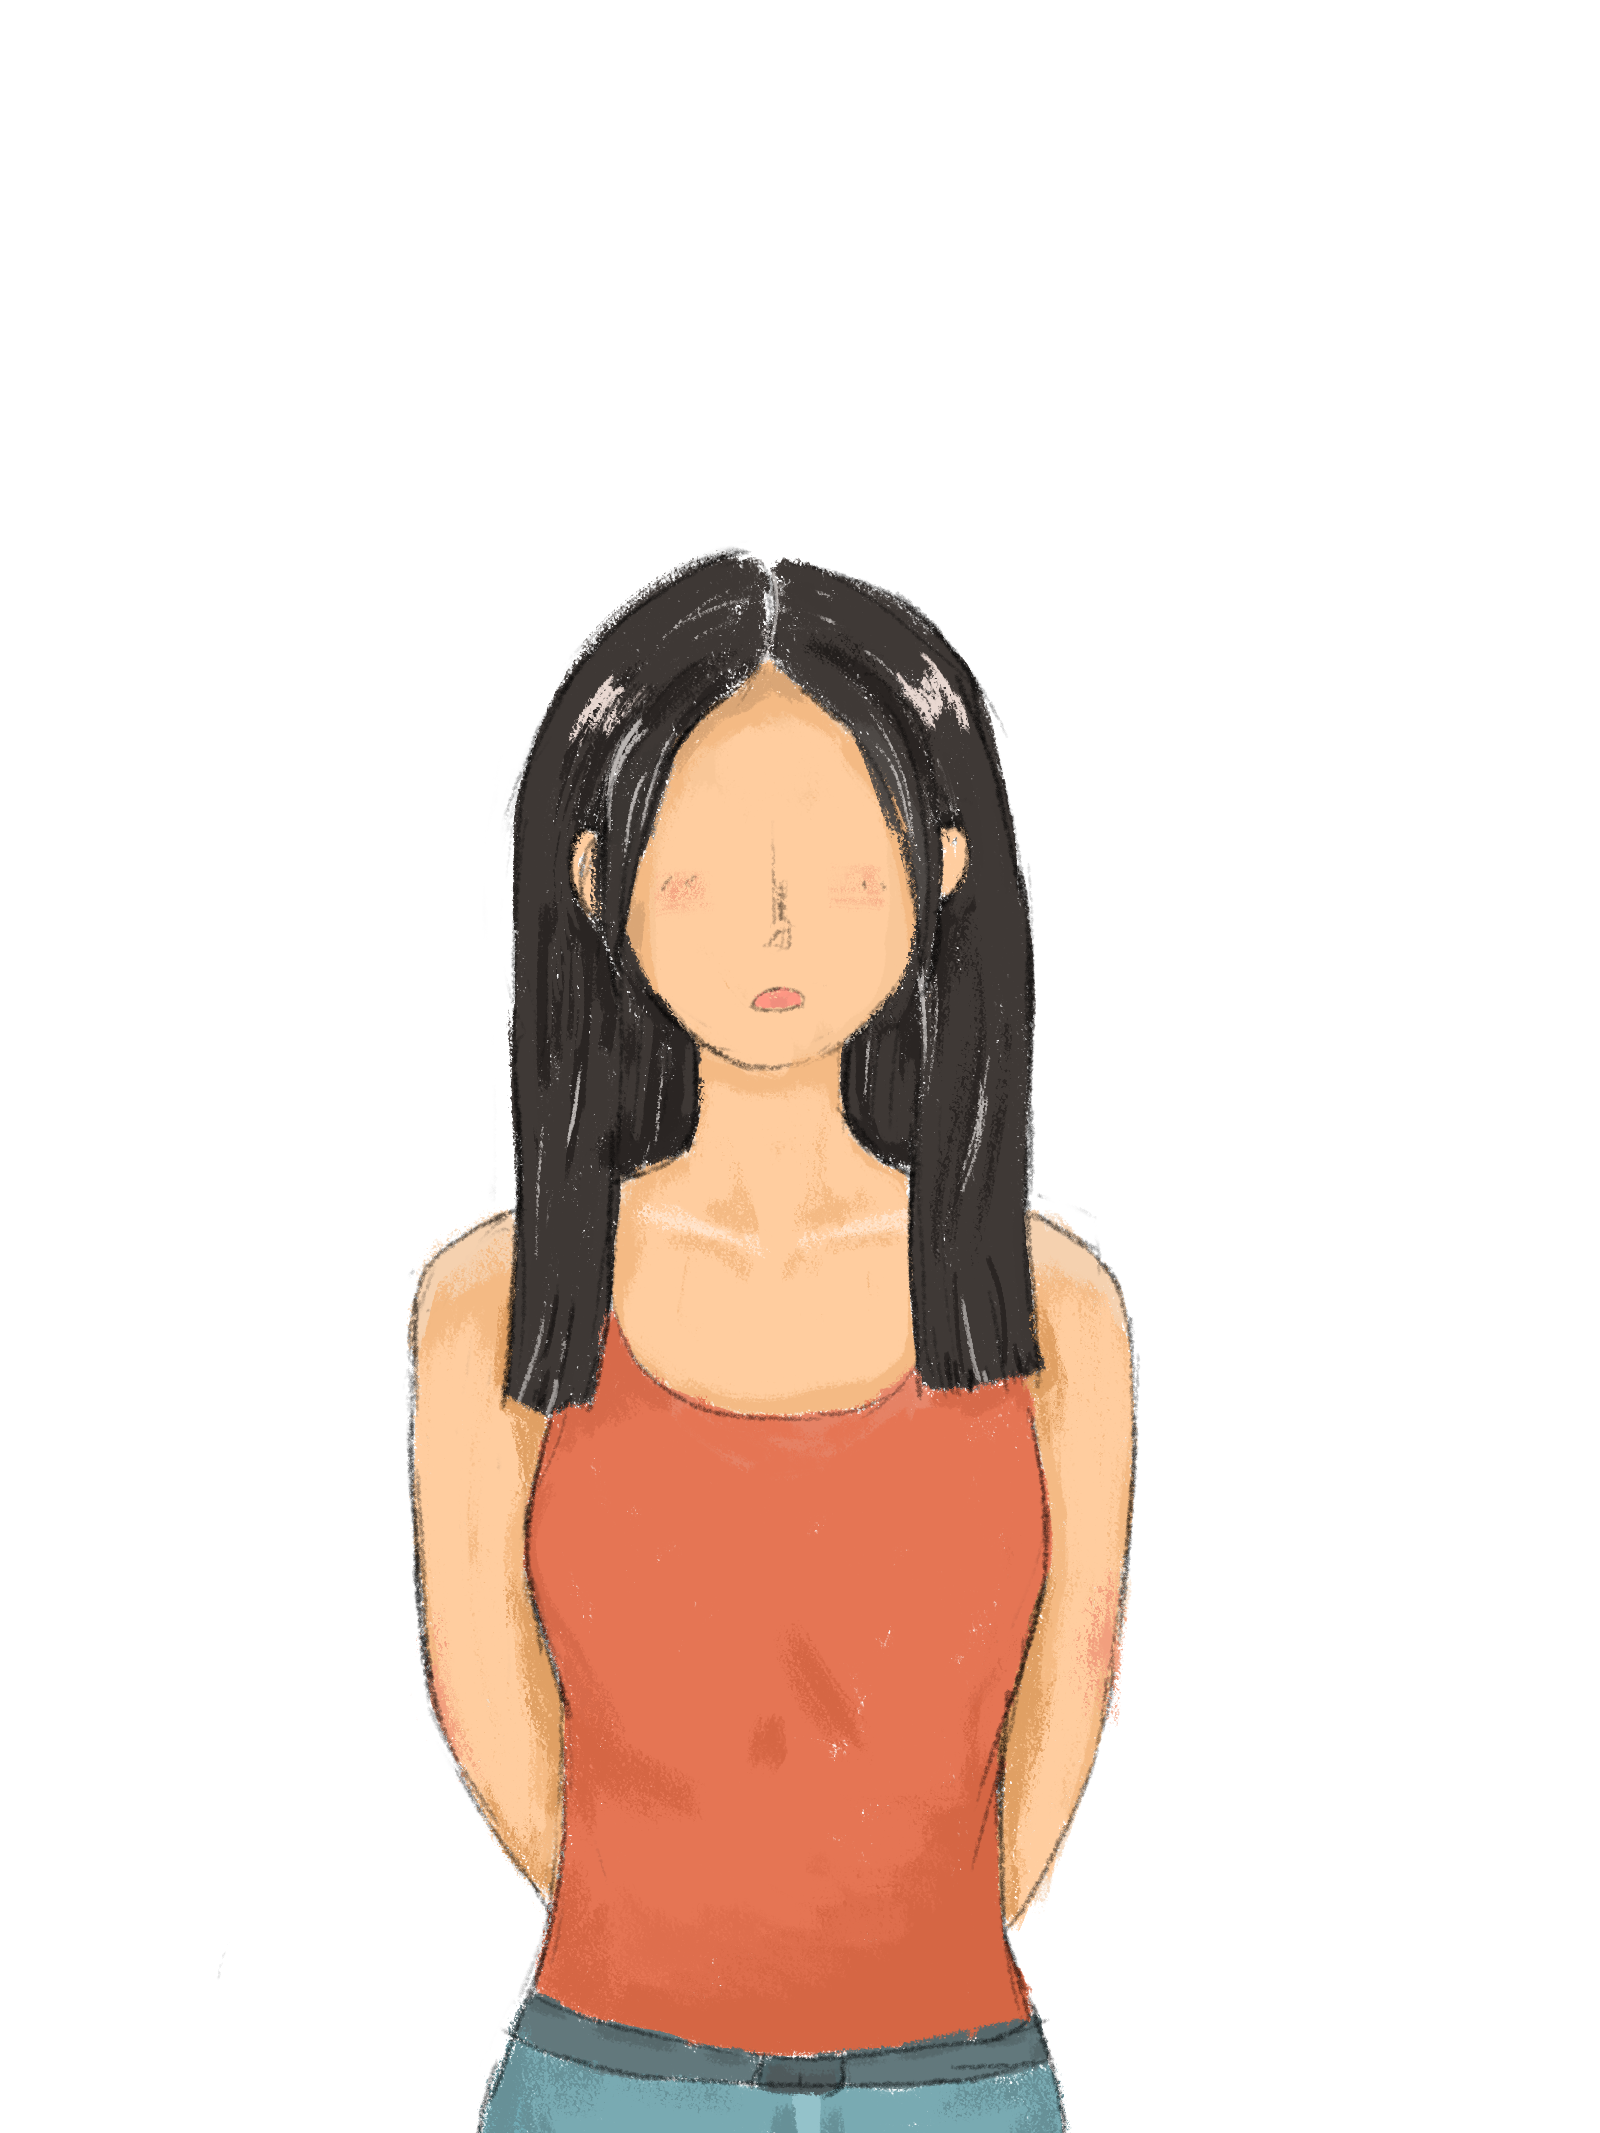
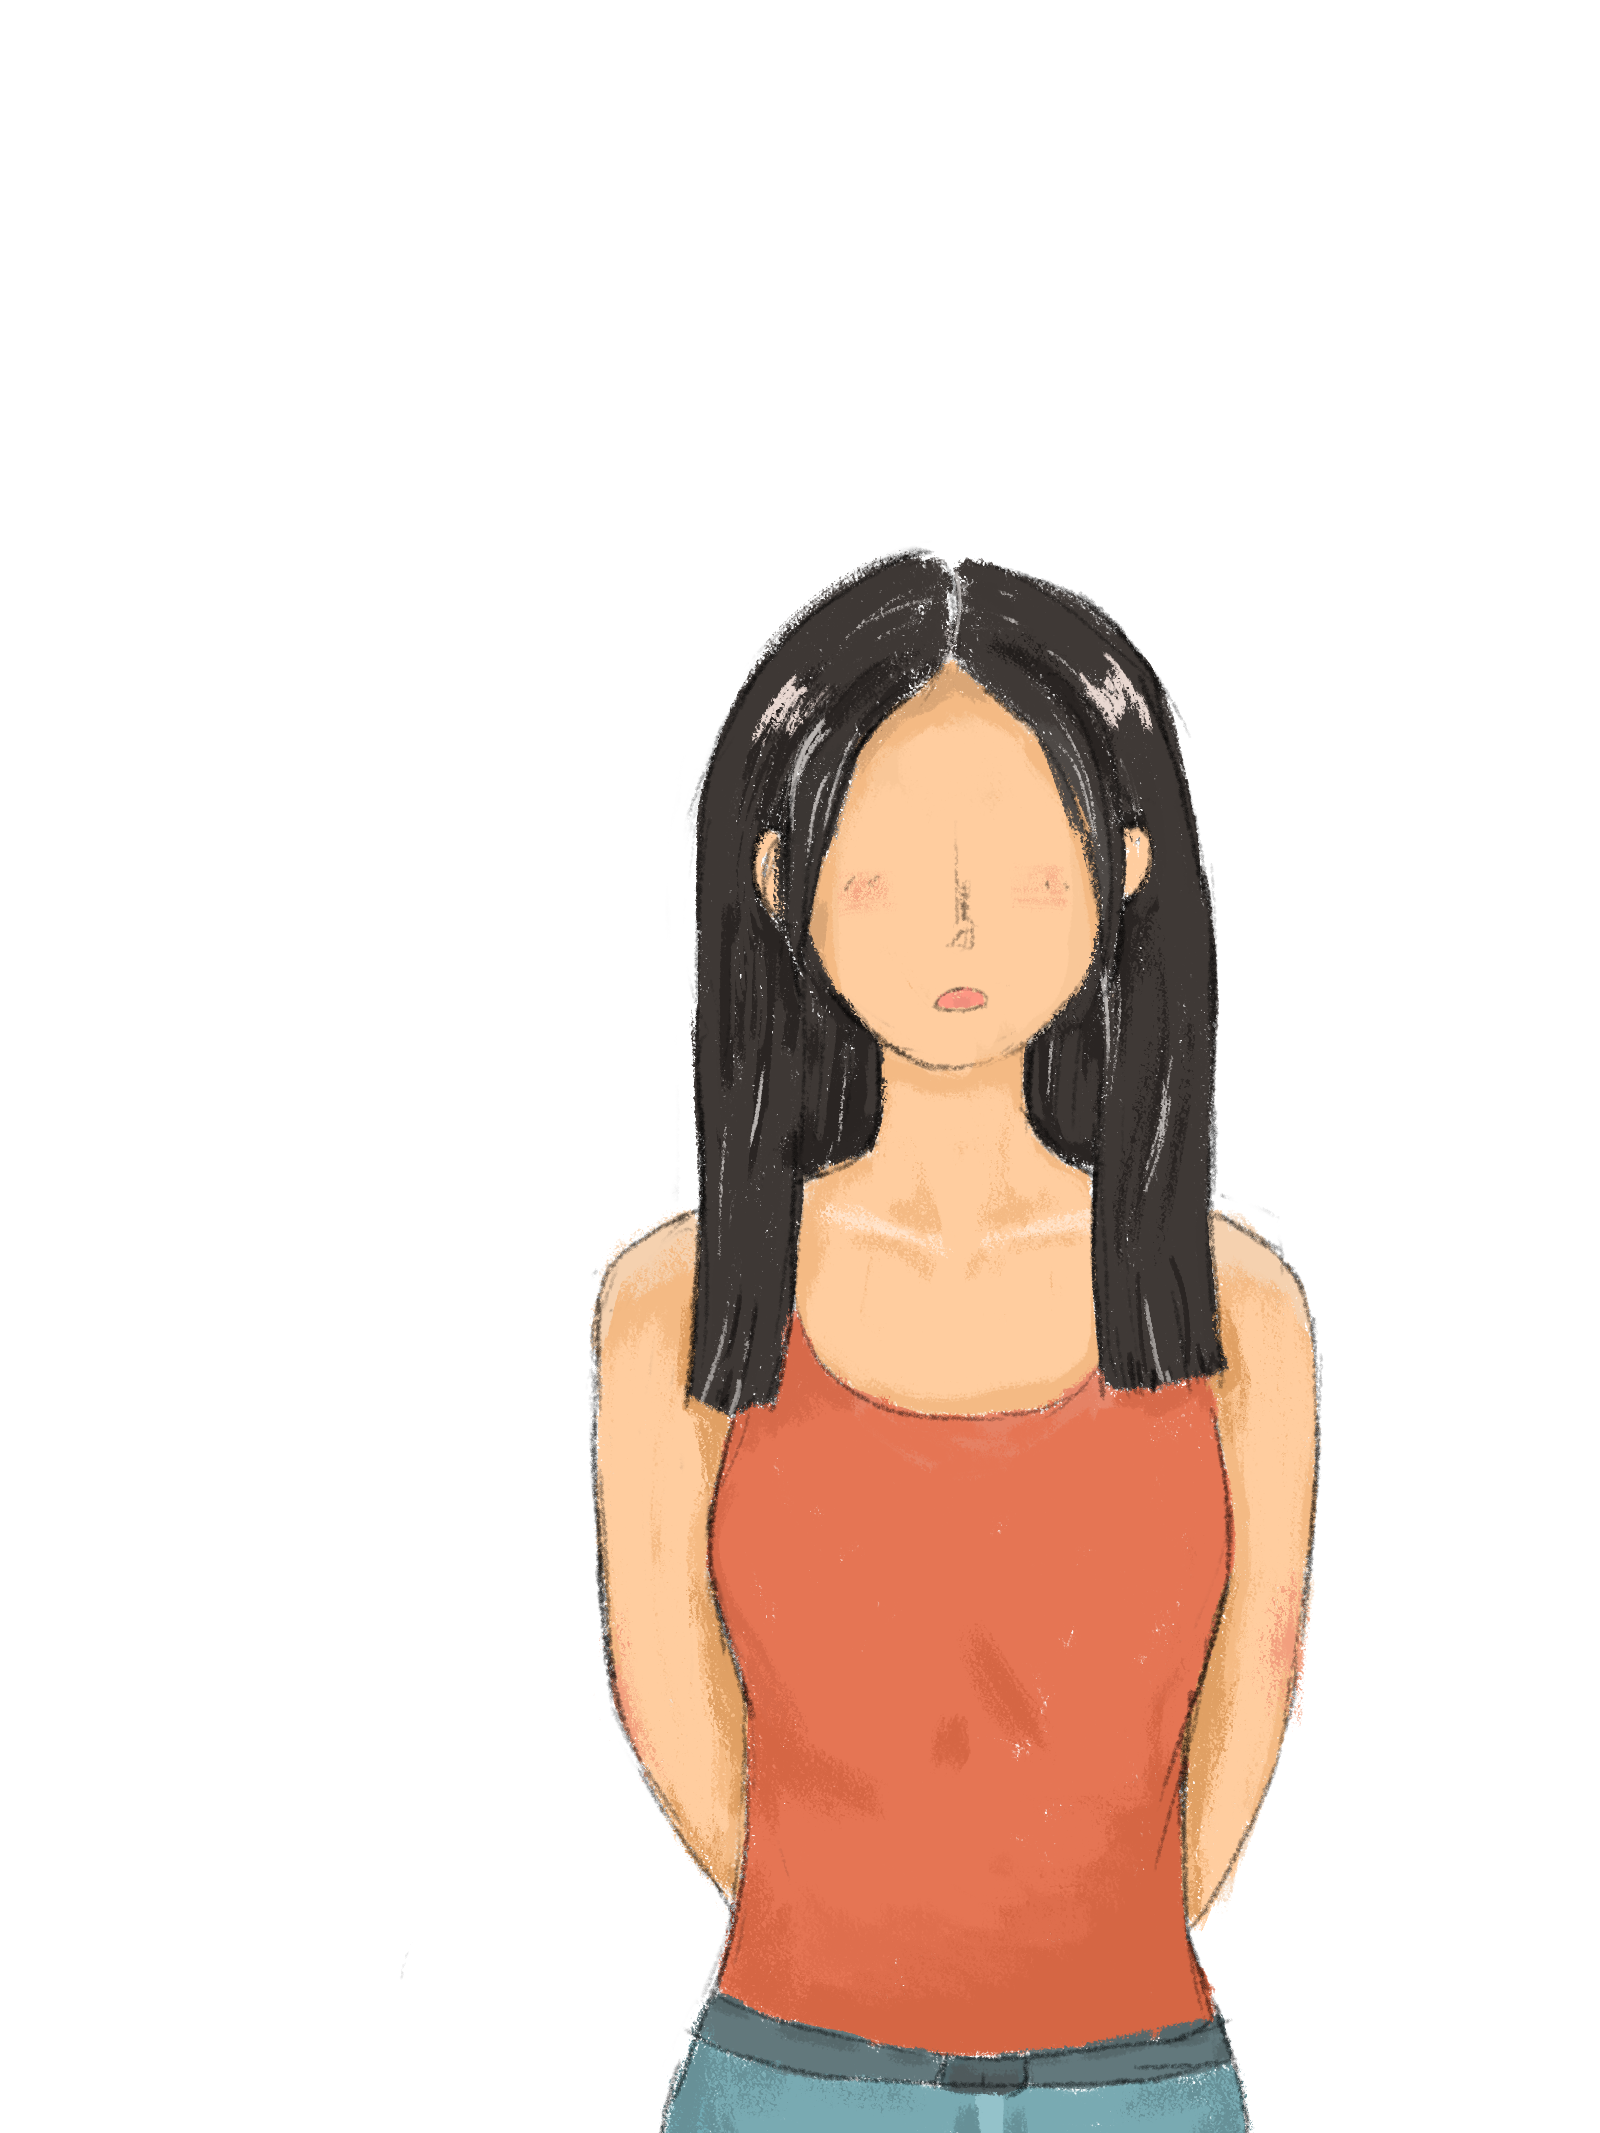
UI Fix & F U VIDEOPLAYER
Uploaded intro video into public s3 bucket for videoplayer.
Changed canvas render mode to match screen size.
Changed character illustrations for unity.

Changed region(s): [[0.25, 0.2475, 0.8438, 1.0]]

diff --git a/Game Project/Assets/Scripts/Intro/LoadingBar.cs b/Game Project/Assets/Scripts/Intro/LoadingBar.cs
@@ -11,6 +11,7 @@ public class LoadingBar : MonoBehaviour
     public GameObject startPage;
     public VideoPlayer videoPlayer;
     public GameObject slideBar;
+    public RawImage dummy;
     public float loadingSpeed = 0.5f;
     private bool start = false;
     void Start()
@@ -32,6 +33,19 @@ public class LoadingBar : MonoBehaviour
     public void StartIntro() {
         startPage.SetActive(false);
         videoPlayer.gameObject.SetActive(true);
+        videoPlayer.url = "https://projectblindspot.s3.amazonaws.com/Intro_with_subs.mp4";
+        // RenderTexture rt = new RenderTexture(Screen.width, Screen.height, 24, RenderTextureFormat.ARGB32);
+        // rt.Create();
+        // videoPlayer.targetTexture = rt;
+        // videoPlayer.GetComponent<RawImage>().texture = rt;
+        // videoPlayer.GetComponent<RectTransform>().SetSizeWithCurrentAnchors(RectTransform.Axis.Vertical, Screen.height);
+        // videoPlayer.GetComponent<RectTransform>().SetSizeWithCurrentAnchors(RectTransform.Axis.Horizontal, Screen.width);
+        //ScalableBufferManager.ResizeBuffers(Screen.width, Screen.height);
+        // videoPlayer.targetTexture.Release();
+        // videoPlayer.targetTexture.width = Screen.width;
+        // videoPlayer.targetTexture.height = Screen.height;
+        // videoPlayer.targetTexture.Create();
+        videoPlayer.Play();
         StartCoroutine(HoldForPlay());
     }
 
